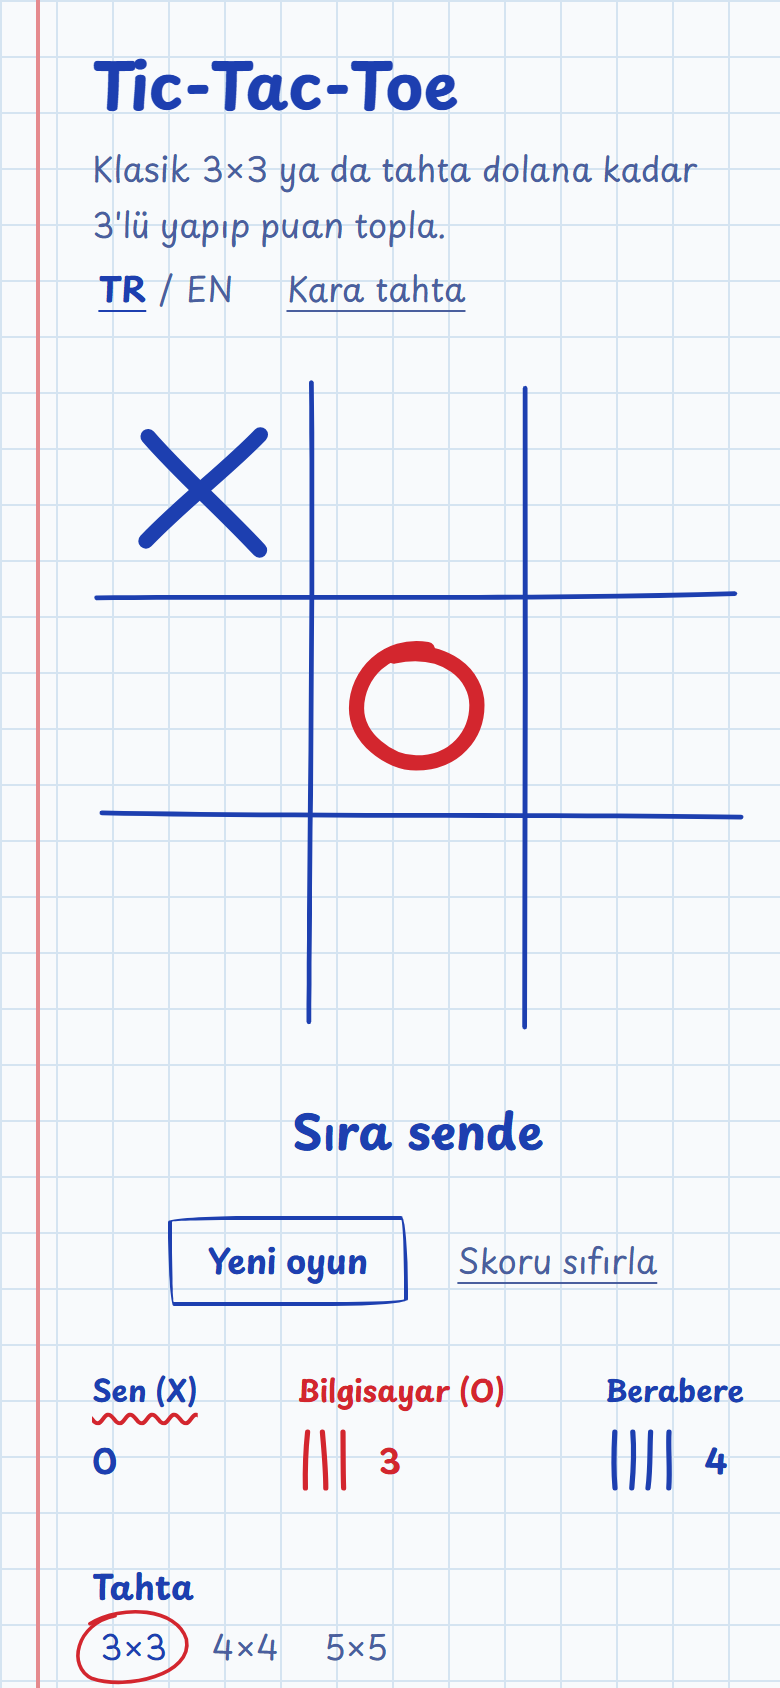
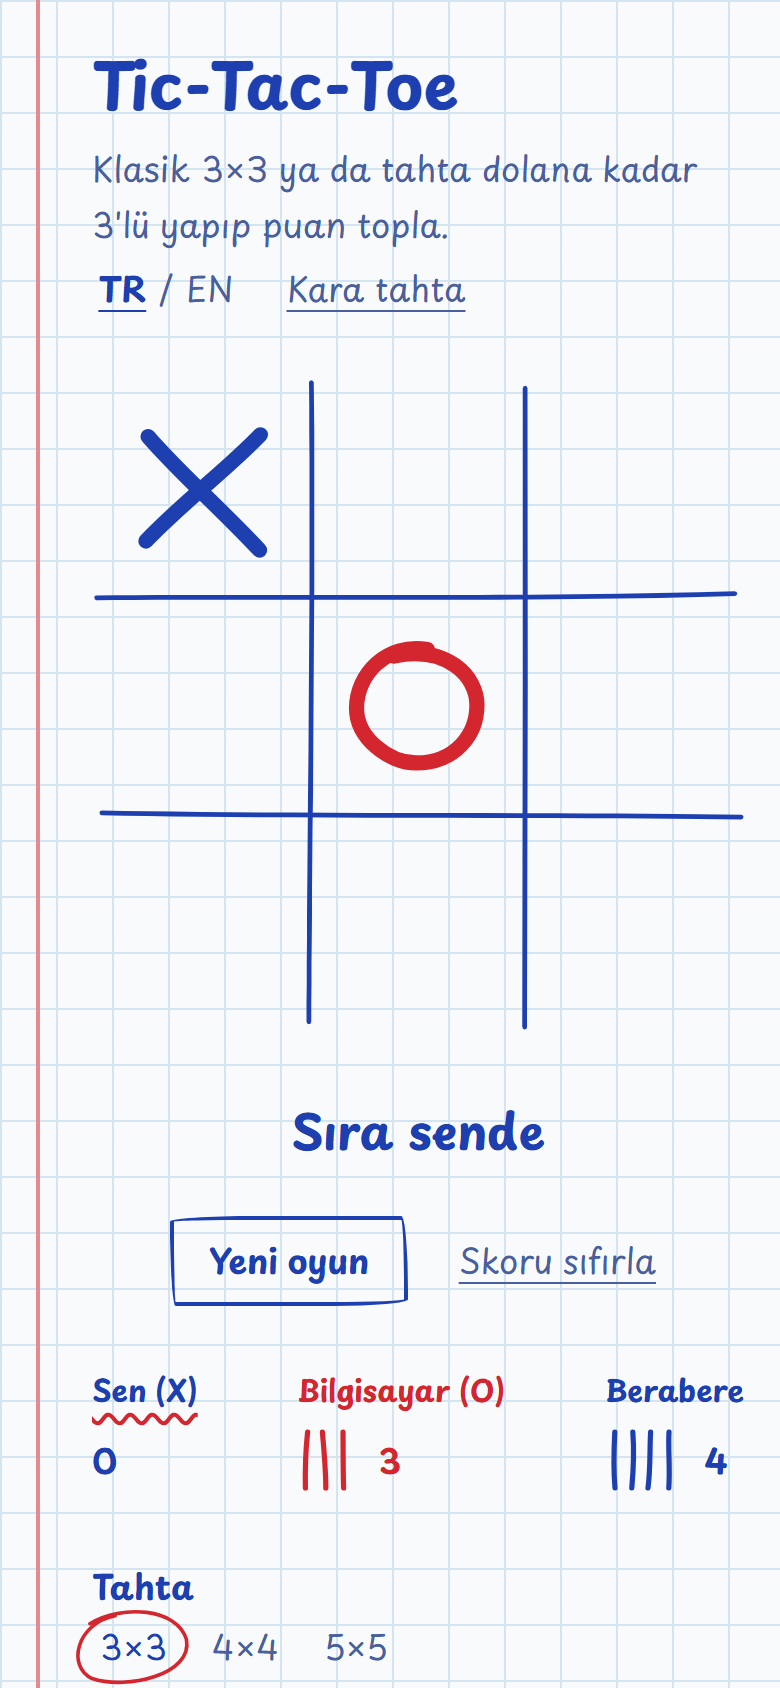
docs(readme): refresh images with the correct font

diff --git a/README.tr.md b/README.tr.md
@@ -43,7 +43,7 @@ Sade HTML, CSS ve JavaScript ile yazılmış bir XOX (tic-tac-toe) oyunu. Klasik
 ## Kullanılan Teknolojiler
 
 - HTML, CSS, JavaScript (ES modülleri, framework yok, derleme adımı yok)
-- Node.js'in yerleşik test aracı (`node --test`), 42 birim testi
+- Node.js'in yerleşik test aracı (`node --test`), 43 birim testi
 - Yayın: Vercel
 
 ## Kurulum ve Çalıştırma

diff --git a/README.md b/README.md
@@ -43,7 +43,7 @@ A tic-tac-toe game in plain HTML, CSS and JavaScript. Play the classic 3×3 game
 ## Tech Stack
 
 - HTML, CSS, JavaScript (ES modules, no framework, no build step)
-- Node.js built-in test runner (`node --test`), 42 unit tests
+- Node.js built-in test runner (`node --test`), 43 unit tests
 - Hosted on Vercel
 
 ## Installation
